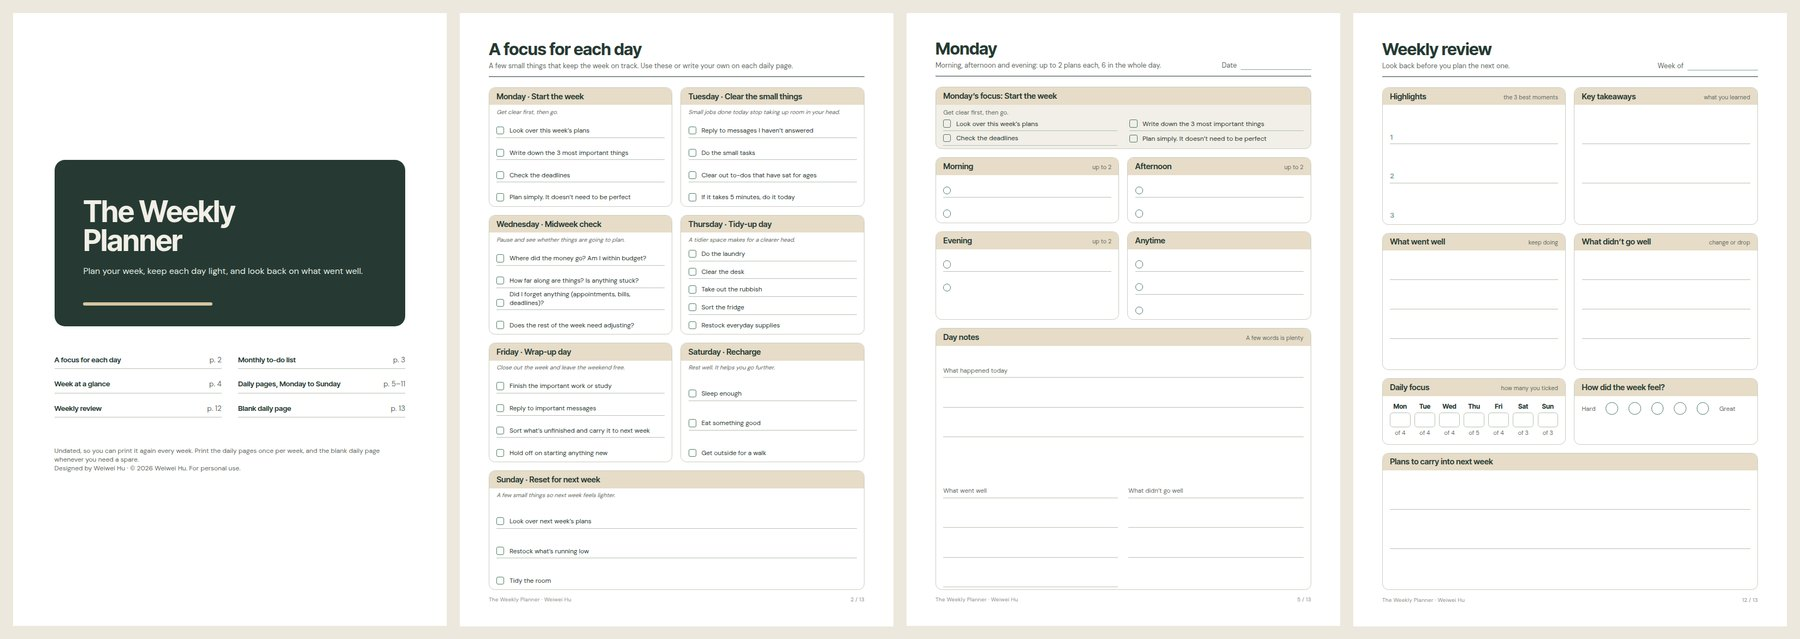
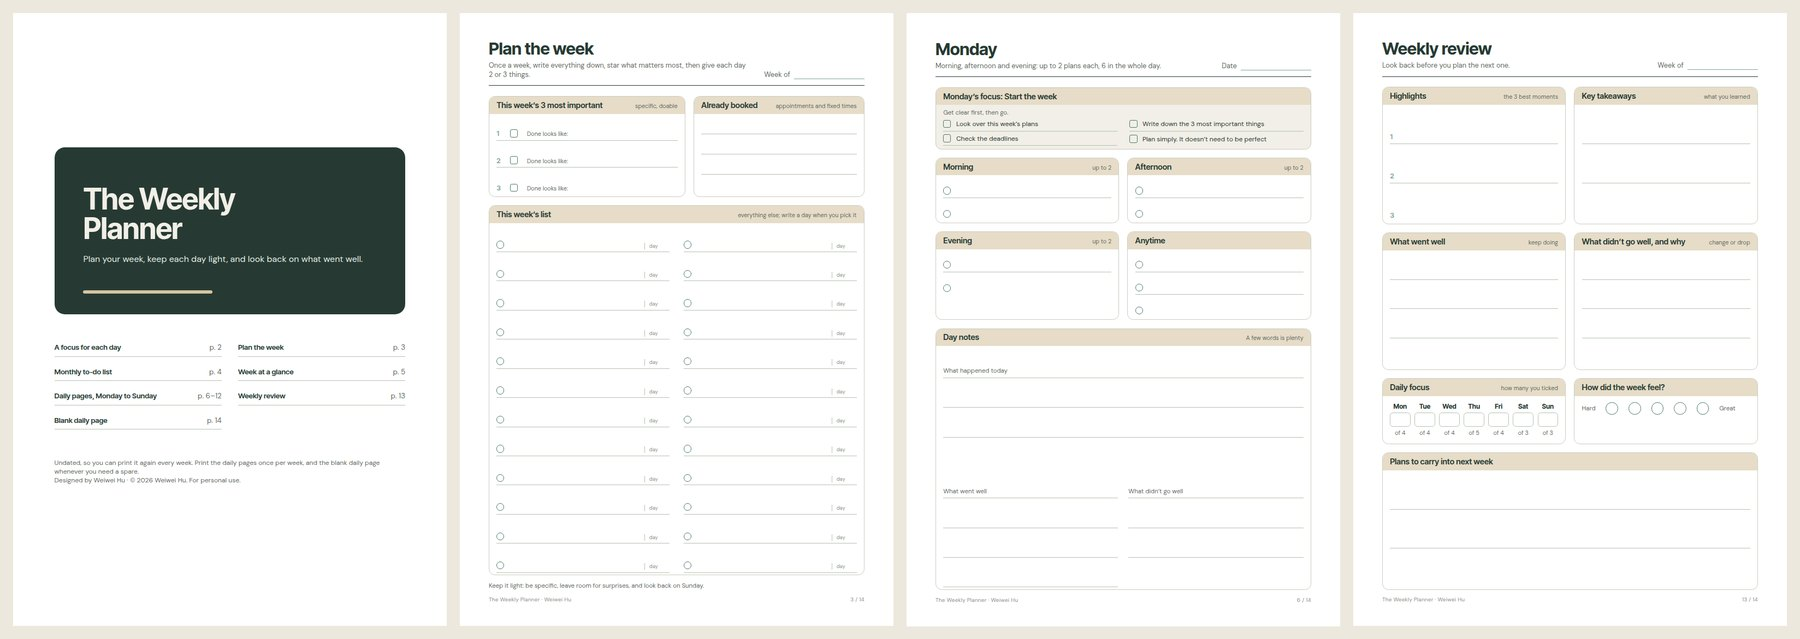
Showcase: this week's list and the 14-page printable preview
Claude-Session: https://claude.ai/code/session_01VDgZDGuyWY1t5kV3qQKL2N

diff --git a/index.html b/index.html
@@ -2197,7 +2197,7 @@ body { background: linear-gradient(180deg, #F4F2EC 0, #ECE8DD 560px) fixed, #ECE
         <li><span class="ic"><svg viewBox="0 0 24 24" fill="none" stroke="currentColor" stroke-width="2.4" stroke-linecap="round" stroke-linejoin="round" aria-hidden="true"><path d="M5 12.5l4.5 4.5L19 7.5"></path></svg></span><span>Plan each day by morning, afternoon and evening</span></li>
         <li><span class="ic"><svg viewBox="0 0 24 24" fill="none" stroke="currentColor" stroke-width="2.4" stroke-linecap="round" stroke-linejoin="round" aria-hidden="true"><path d="M5 12.5l4.5 4.5L19 7.5"></path></svg></span><span>Give each day a focus, like a midweek check or a tidy-up day</span></li>
         <li><span class="ic"><svg viewBox="0 0 24 24" fill="none" stroke="currentColor" stroke-width="2.4" stroke-linecap="round" stroke-linejoin="round" aria-hidden="true"><path d="M5 12.5l4.5 4.5L19 7.5"></path></svg></span><span>See what’s not started, in progress, and done<span class="pills" aria-hidden="true"><span class="pill not_started">Not started</span><span class="pill in_progress">In progress</span><span class="pill done">Done</span></span></span></li>
-        <li><span class="ic"><svg viewBox="0 0 24 24" fill="none" stroke="currentColor" stroke-width="2.4" stroke-linecap="round" stroke-linejoin="round" aria-hidden="true"><path d="M5 12.5l4.5 4.5L19 7.5"></path></svg></span><span>Sort tasks by due date, or leave the date open</span></li>
+        <li><span class="ic"><svg viewBox="0 0 24 24" fill="none" stroke="currentColor" stroke-width="2.4" stroke-linecap="round" stroke-linejoin="round" aria-hidden="true"><path d="M5 12.5l4.5 4.5L19 7.5"></path></svg></span><span>Keep one list for the week and star the 3 that matter most</span></li>
         <li><span class="ic"><svg viewBox="0 0 24 24" fill="none" stroke="currentColor" stroke-width="2.4" stroke-linecap="round" stroke-linejoin="round" aria-hidden="true"><path d="M5 12.5l4.5 4.5L19 7.5"></path></svg></span><span>Carry unfinished tasks into the next week</span></li>
         <li><span class="ic"><svg viewBox="0 0 24 24" fill="none" stroke="currentColor" stroke-width="2.4" stroke-linecap="round" stroke-linejoin="round" aria-hidden="true"><path d="M5 12.5l4.5 4.5L19 7.5"></path></svg></span><span>Get a summary of your week</span></li>
         <li><span class="ic"><svg viewBox="0 0 24 24" fill="none" stroke="currentColor" stroke-width="2.4" stroke-linecap="round" stroke-linejoin="round" aria-hidden="true"><path d="M5 12.5l4.5 4.5L19 7.5"></path></svg></span><span>Look back at previous weeks</span></li>
@@ -2206,8 +2206,8 @@ body { background: linear-gradient(180deg, #F4F2EC 0, #ECE8DD 560px) fixed, #ECE
     </section>
     <section aria-labelledby="introPrint">
       <h2 id="introPrint">Printable and download bundle</h2>
-      <p>Prefer paper? A printable pack is on the way: 13 undated pages in A4 and US Letter, with a focus for each day, a monthly to-do list, a week at a glance, daily pages and a weekly review. A bundle will also include a copy of the planner you can open in your own browser.</p>
-      <img src="printable-preview.jpg" alt="Four pages from the printable pack: the cover, a focus for each day, a Monday page and the weekly review" width="1800" height="639" loading="lazy" style="display:block;width:100%;height:auto;margin-top:16px;border-radius:14px;border:1px solid var(--line)">
+      <p>Prefer paper? A printable pack is on the way: 14 undated pages in A4 and US Letter, with a focus for each day, a plan-the-week page, a monthly to-do list, a week at a glance, daily pages and a weekly review. A bundle will also include a copy of the planner you can open in your own browser.</p>
+      <img src="printable-preview.jpg" alt="Four pages from the printable pack: the cover, plan the week, a Monday page and the weekly review" width="1800" height="639" loading="lazy" style="display:block;width:100%;height:auto;margin-top:16px;border-radius:14px;border:1px solid var(--line)">
     </section>
     <section class="cta" aria-labelledby="introHow">
       <h2 id="introHow">Want to try it?</h2>

diff --git a/README.md b/README.md
@@ -13,7 +13,7 @@ Plan your week together, spend less time sending reminders, and see everything y
 - Plan each day by morning, afternoon and evening
 - Give each day a focus, like a midweek check or a tidy-up day
 - See what's not started, in progress, and done
-- Sort tasks by due date, or leave the date open
+- Keep one list for the week and star the 3 that matter most
 - Carry unfinished tasks into the next week
 - Get a summary of your week
 - Look back at previous weeks
@@ -21,7 +21,7 @@ Plan your week together, spend less time sending reminders, and see everything y
 
 ## Printable and download bundle
 
-Prefer paper? A printable pack is on the way: 13 undated pages in A4 and US Letter, with a focus for each day, a monthly to-do list, a week at a glance, daily pages and a weekly review. A bundle will also include a copy of the planner you can open in your own browser.
+Prefer paper? A printable pack is on the way: 14 undated pages in A4 and US Letter, with a focus for each day, a plan-the-week page, a monthly to-do list, a week at a glance, daily pages and a weekly review. A bundle will also include a copy of the planner you can open in your own browser.
 
 ![Four pages from the printable pack](printable-preview.jpg)
 
